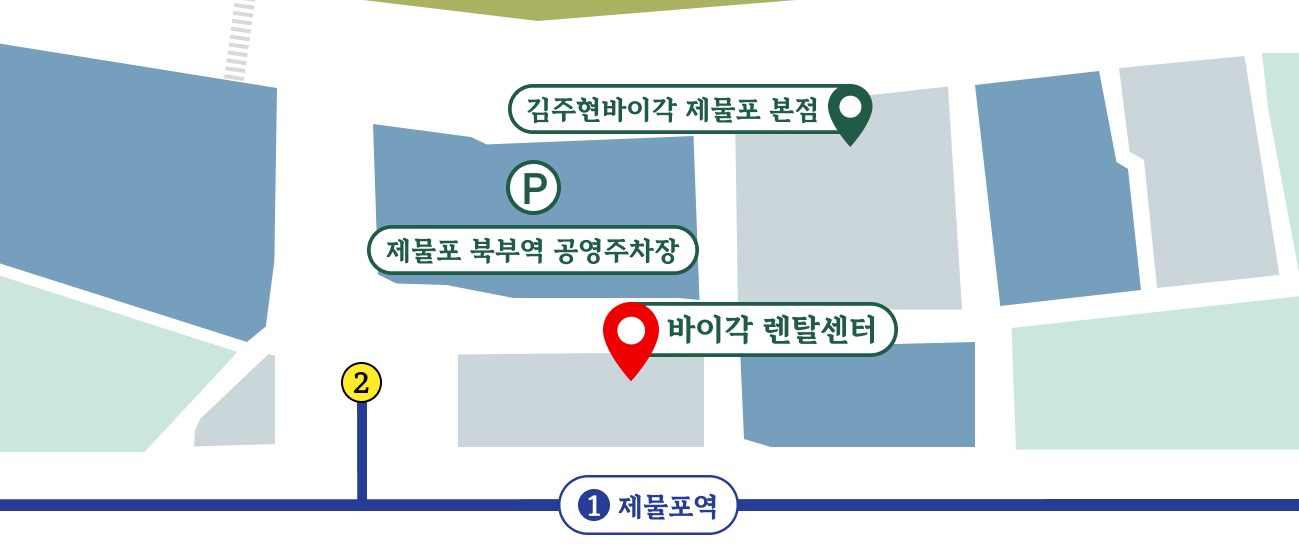
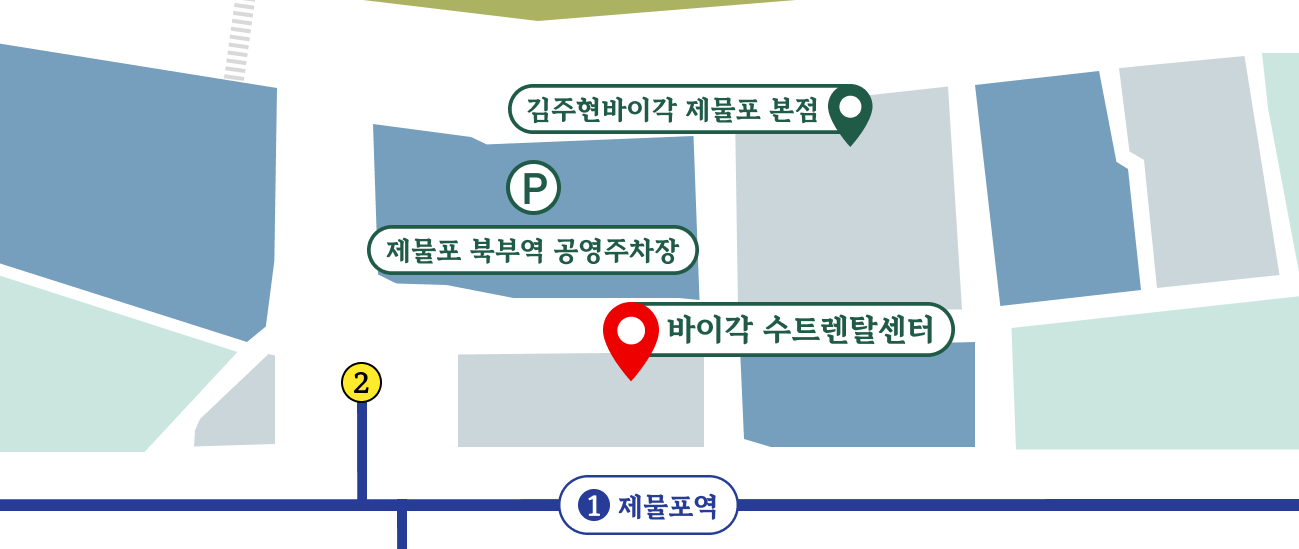
230404 in C

Changed region(s): [[0.5851, 0.5264, 0.739, 0.6503], [0.3079, 0.929, 0.3387, 1.0]]

diff --git a/bykaksuitrentalcenter/lib/main_page.dart b/bykaksuitrentalcenter/lib/main_page.dart
@@ -117,8 +117,8 @@ class _MainPageState extends State<MainPage> {
   @override
   void dispose() {
     super.dispose();
+    //_videoController.dispose();
     _timer.cancel();
-    _videoController.dispose();
   }
 
   @override
@@ -151,11 +151,8 @@ class _MainPageState extends State<MainPage> {
                         ),
                       ),
                       onTap: () {
-                        setState(() {
-                          currentPage = 0;
-                        });
+                        currentPage = 0;
                         movePage();
-                        Get.back();
                       },
                     ),
                     Container(
@@ -172,9 +169,16 @@ class _MainPageState extends State<MainPage> {
               children: [
                 PageView(
                   controller: _pageController,
-                  physics: ClampingScrollPhysics(),
+                  physics: PageScrollPhysics(),
                   scrollDirection: Axis.vertical,
                   pageSnapping: true,
+                  scrollBehavior: ScrollConfiguration.of(context).copyWith(
+                    dragDevices: {
+                      PointerDeviceKind.mouse,
+                      PointerDeviceKind.touch,
+                      PointerDeviceKind.trackpad,
+                    },
+                  ),
                   onPageChanged: (value) {
                     setState(() {
                       currentPage = value;
@@ -243,8 +247,6 @@ class ByKak extends StatefulWidget {
 class _ByKakState extends State<ByKak> {
   @override
   Widget build(BuildContext context) {
-    // print("isInitialized: " + _videoController.value.isInitialized.toString());
-    // print("_videoPlay: " + _videoPlay.toString());
     return ResponsiveSizer(builder: (context, orientation, screenType) {
       return Container(
         width: MediaQuery.of(context).size.width,
@@ -1378,27 +1380,79 @@ class _LocationState extends State<Location> {
                   ),
                 ),
                 Padding(padding: EdgeInsets.all(8)),
-                InkWell(
-                  child: Container(
-                    height: mapHeight(context),
-                    child: BykakMap(),
+                // InkWell(
+                Image.asset(
+                  'assets/images/rental_center_location.png',
+                  fit: BoxFit.cover,
+                ),
+                //   onTap: () async {
+                //     final url = Uri.parse(
+                //       'https://map.naver.com/v5/entry/place/1943136667?c=16,0,0,0,dh',
+                //     );
+                //     if (await canLaunchUrl(url)) {
+                //       launchUrl(url, mode: LaunchMode.externalApplication);
+                //     }
+                //   },
+                // ),
+                Padding(
+                  padding: const EdgeInsets.only(top: 8),
+                  child: Row(
+                    children: [
+                      Flexible(
+                        fit: FlexFit.tight,
+                        child: ElevatedButton(
+                          style: ElevatedButton.styleFrom(
+                            backgroundColor: mainColor,
+                            minimumSize: Size.fromHeight(40),
+                          ),
+                          child: Text(
+                            '바이각 수트렌탈센터 >',
+                            style: TextStyle(
+                              fontSize: h6FontSize(context),
+                            ),
+                          ),
+                          onPressed: () async {
+                            final url = Uri.parse(
+                              'https://map.naver.com/v5/entry/place/1943136667?c=16,0,0,0,dh',
+                            );
+                            if (await canLaunchUrl(url)) {
+                              launchUrl(url,
+                                  mode: LaunchMode.externalApplication);
+                            }
+                          },
+                        ),
+                      ),
+                      Padding(
+                        padding: EdgeInsets.only(
+                          left: paddingSize(context),
+                        ),
+                      ),
+                      Flexible(
+                        fit: FlexFit.tight,
+                        child: ElevatedButton(
+                          style: ElevatedButton.styleFrom(
+                            backgroundColor: mainColor,
+                            minimumSize: Size.fromHeight(40),
+                          ),
+                          child: Text(
+                            '김주현바이각 제물포 본점 >',
+                            style: TextStyle(
+                              fontSize: h6FontSize(context),
+                            ),
+                          ),
+                          onPressed: () async {
+                            final url = Uri.parse(
+                              'https://map.naver.com/v5/entry/place/36410973?c=16,0,0,0,dh',
+                            );
+                            if (await canLaunchUrl(url)) {
+                              launchUrl(url,
+                                  mode: LaunchMode.externalApplication);
+                            }
+                          },
+                        ),
+                      ),
+                    ],
                   ),
-                  // child: ClipRRect(
-                  //   borderRadius: BorderRadius.circular(8),
-                  //   child: Image.asset(
-                  //     'assets/images/rental_center_location.png',
-                  //     fit: BoxFit.cover,
-                  //   ),
-                  // ),
-                  // onTap: () async {
-                  //   final url = Uri.parse(
-                  //     'https://map.naver.com/v5/search/%EB%B0%94%EC%9D%B4%EA%B0%81?c=16,0,0,0,dh',
-                  //     // 'https://map.naver.com/v5/search/%EB%B0%94%EC%9D%B4%EA%B0%81?c=17.46,0,0,0,dh',
-                  //   );
-                  //   if (await canLaunchUrl(url)) {
-                  //     launchUrl(url, mode: LaunchMode.externalApplication);
-                  //   }
-                  // },
                 ),
                 Column(
                   crossAxisAlignment: CrossAxisAlignment.start,
@@ -1408,7 +1462,7 @@ class _LocationState extends State<Location> {
                       crossAxisAlignment: CrossAxisAlignment.start,
                       children: [
                         Padding(
-                          padding: const EdgeInsets.only(top: 8),
+                          padding: const EdgeInsets.only(top: 16),
                           child: Text(
                             '바이각 수트렌탈센터',
                             style: TextStyle(

diff --git a/bykaksuitrentalcenter/lib/products_page.dart b/bykaksuitrentalcenter/lib/products_page.dart
@@ -8,8 +8,6 @@ import 'dart:ui';
 
 import 'package:bykaksuitrentalcenter/main_page.dart';
 
-// import 'package:cached_network_image/cached_network_image.dart';
-
 class ProductsPage extends StatefulWidget {
   const ProductsPage({super.key});
 
@@ -18,35 +16,13 @@ class ProductsPage extends StatefulWidget {
 }
 
 class _ProductsPageState extends State<ProductsPage> {
-  bool _isLoading = true;
-  List productList = [];
-
-  imgCheck() async {
-    var productImg =
-        await firestore.collection('productImg').doc('imgList').get();
-    productList = productImg['img'];
-    // print(productList);
-  }
-
   @override
   void initState() {
     super.initState();
-    imgCheck();
-  }
-
-  @override
-  void dispose() {
-    super.dispose();
   }
 
   @override
   Widget build(BuildContext context) {
-    Future.delayed(Duration(seconds: 1), () {
-      setState(() {
-        _isLoading = false;
-      });
-    });
-
     return ResponsiveSizer(builder: (context, orientation, screenType) {
       return Scaffold(
         backgroundColor: whiteColor,
@@ -73,7 +49,6 @@ class _ProductsPageState extends State<ProductsPage> {
             ),
             child: Center(
               child: Container(
-                // width: style.widgetSize(context),
                 height: double.infinity,
                 child: GridView.builder(
                     itemCount: 23,
@@ -187,15 +162,15 @@ class ProductsAppBar extends StatelessWidget {
         children: [
           InkWell(
             child: Text(
-              'by覺 렌탈센터',
+              'by覺 수트렌탈센터',
               style: TextStyle(
-                fontSize: h0FontSize(context),
+                fontSize: h1FontSize(context),
                 fontWeight: boldText,
                 color: mainColor,
               ),
             ),
             onTap: () {
-              Get.toNamed('/');
+              Get.offAllNamed('/');
             },
           ),
         ],

diff --git a/bykaksuitrentalcenter/lib/menu_state.dart b/bykaksuitrentalcenter/lib/menu_state.dart
@@ -556,7 +556,7 @@ class _FloatActBtnState extends State<FloatActBtn> {
                 },
                 onTap: () async {
                   final url = Uri.parse(
-                    'http://pf.kakao.com/_UxoHxbT/chat',
+                    'http://pf.kakao.com/_WExlxixj/chat',
                   );
                   if (await canLaunchUrl(url)) {
                     launchUrl(

diff --git a/bykaksuitrentalcenter/lib/bykak_map.dart b/bykaksuitrentalcenter/lib/bykak_map.dart
@@ -107,7 +107,7 @@ class _BykakMapState extends State<BykakMap> {
       ],
       children: [
         TileLayer(
-          urlTemplate: 'https://tile.openstreetmap.org/{z}/{x}/{y}.png',
+          urlTemplate: 'https://a.tile.openstreetmap.org/{z}/{x}/{y}.png',
           userAgentPackageName: 'com.bykak.bykaksuitrentalcenter',
         ),
         MarkerLayer(markers: markers),
